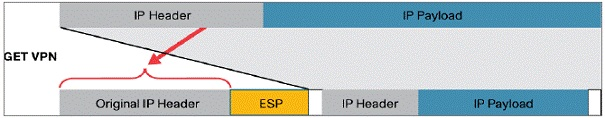
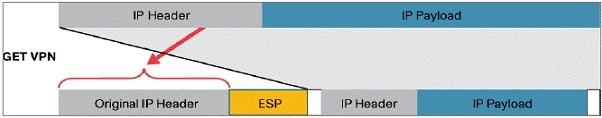
Corrige figura usada no artigo.

diff --git a/CriptografiaBackbone/CriptografiaBackbone.md b/CriptografiaBackbone/CriptografiaBackbone.md
@@ -360,6 +360,8 @@ escalável a 20 Gbps de capacidade de criptografia no backbone por CP.
 
 ![Integração do criptografador no *backbone*](imagens/image007.jpg)
 
+\pagebreak
+
 Referências
 ===========
 
